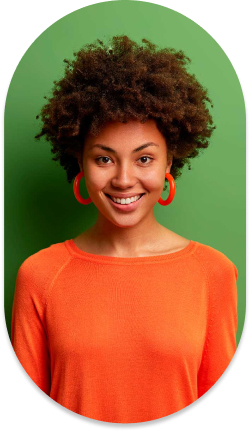
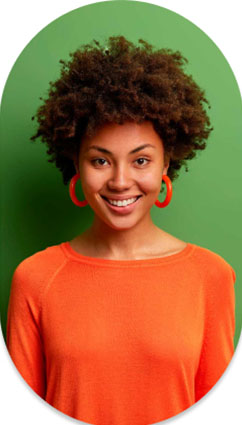
виправив картинку додав стилі до картинок

diff --git a/index.html b/index.html
@@ -73,18 +73,18 @@
             </div>
             <div class="main__images images-main">
               <div class="images-main__column">
-                <div class="images-main__item">
+                <div class="images-main__item images-main__item_1">
                   <img src="./img/main/01.jpg" alt="Image" />
                 </div>
-                <div class="images-main__item">
+                <div class="images-main__item images-main__item_2">
                   <img src="./img/main/02.jpg" alt="Image" />
                 </div>
               </div>
               <div class="images-main__column">
-                <div class="images-main__item">
+                <div class="images-main__item images-main__item_3">
                   <img src="./img/main/03.jpg" alt="Image" />
                 </div>
-                <div class="images-main__item">
+                <div class="images-main__item  images-main__item_4">
                   <img src="./img/main/04.jpg" alt="Image" />
                 </div>
               </div>

diff --git a/css/styles.css b/css/styles.css
@@ -159,15 +159,30 @@ body {
 }
 .images-main {
   display: flex;
+  gap: 9.615385%; /* 60/624 */
   justify-content: center;
 }
 .images-main__column {
-  flex: 0 1 50%;
+  display: flex;
+  flex-direction: column;
+  gap: 32px;
 }
 .images-main__item {
+  overflow: hidden;
 }
+.images-main__item_1,
+.images-main__item_4 {
+  border-radius: 50% / 29%;
+}
+.images-main__item_2 {
+  border-radius: 50% 50% 0 50%;
+}
+.images-main__item_3 {
+  border-radius: 50% 0 50% 50%;
+}
+
 .images-main__item img {
-  max-width: 242px;
+  max-width: 100%;
 }
 /* 2 block */
 
